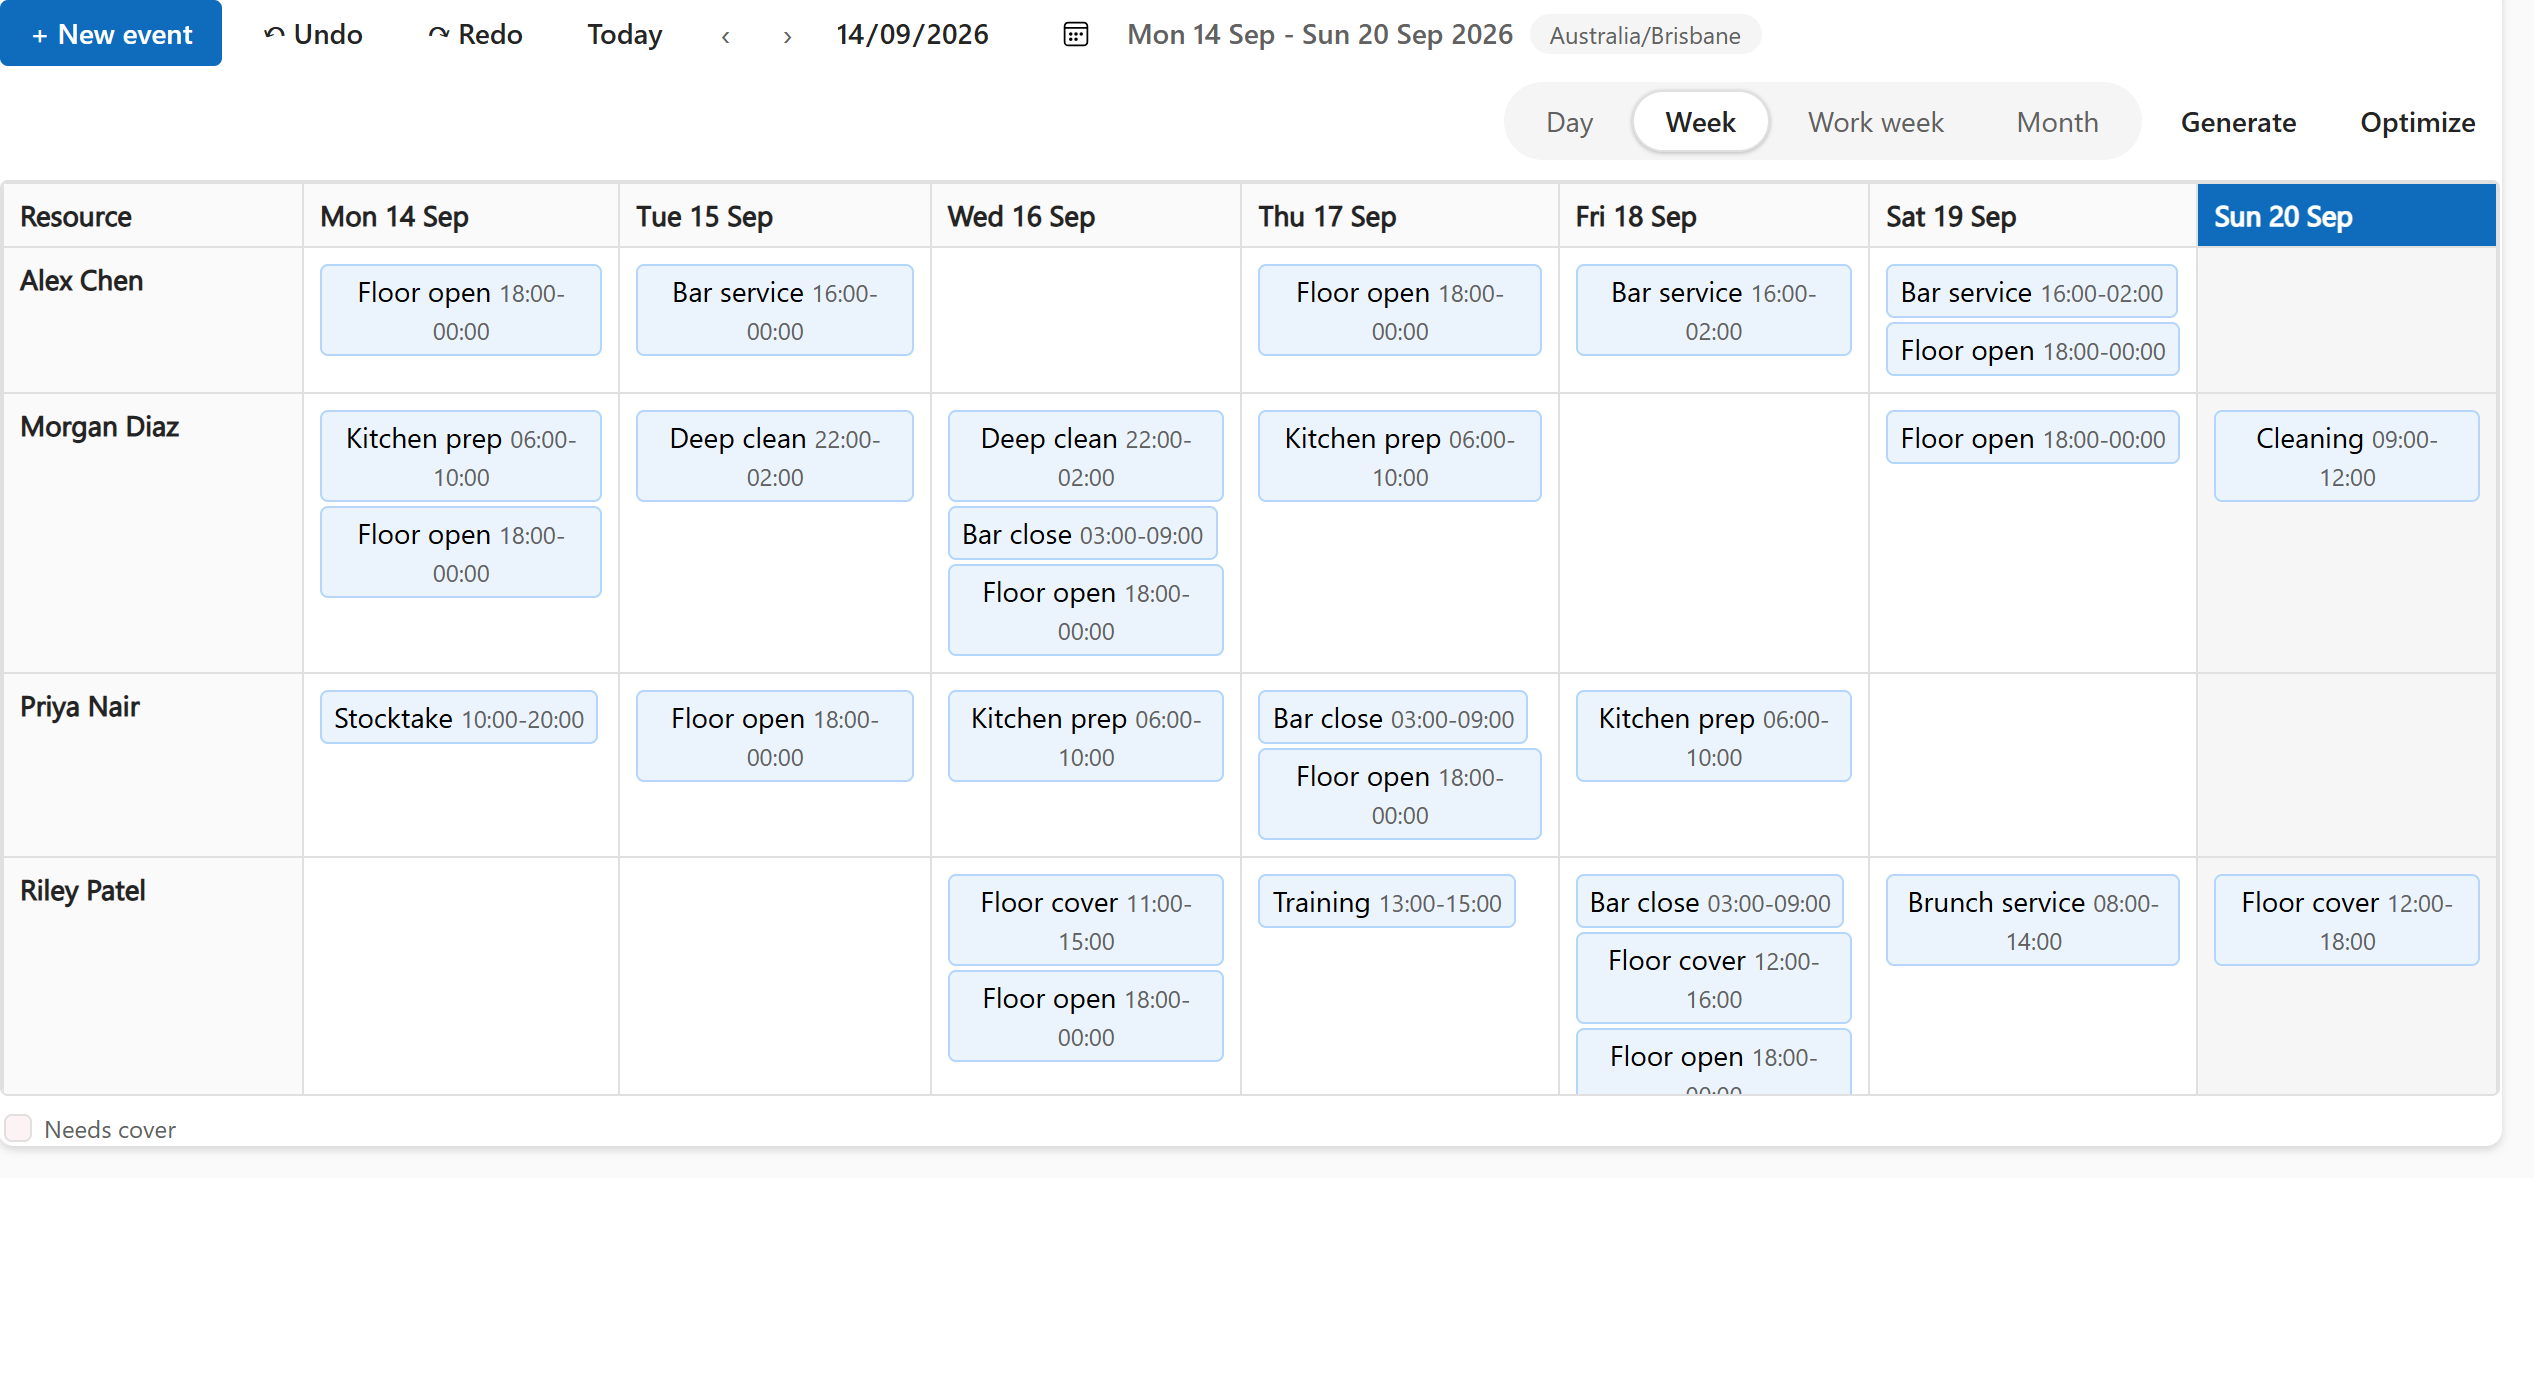
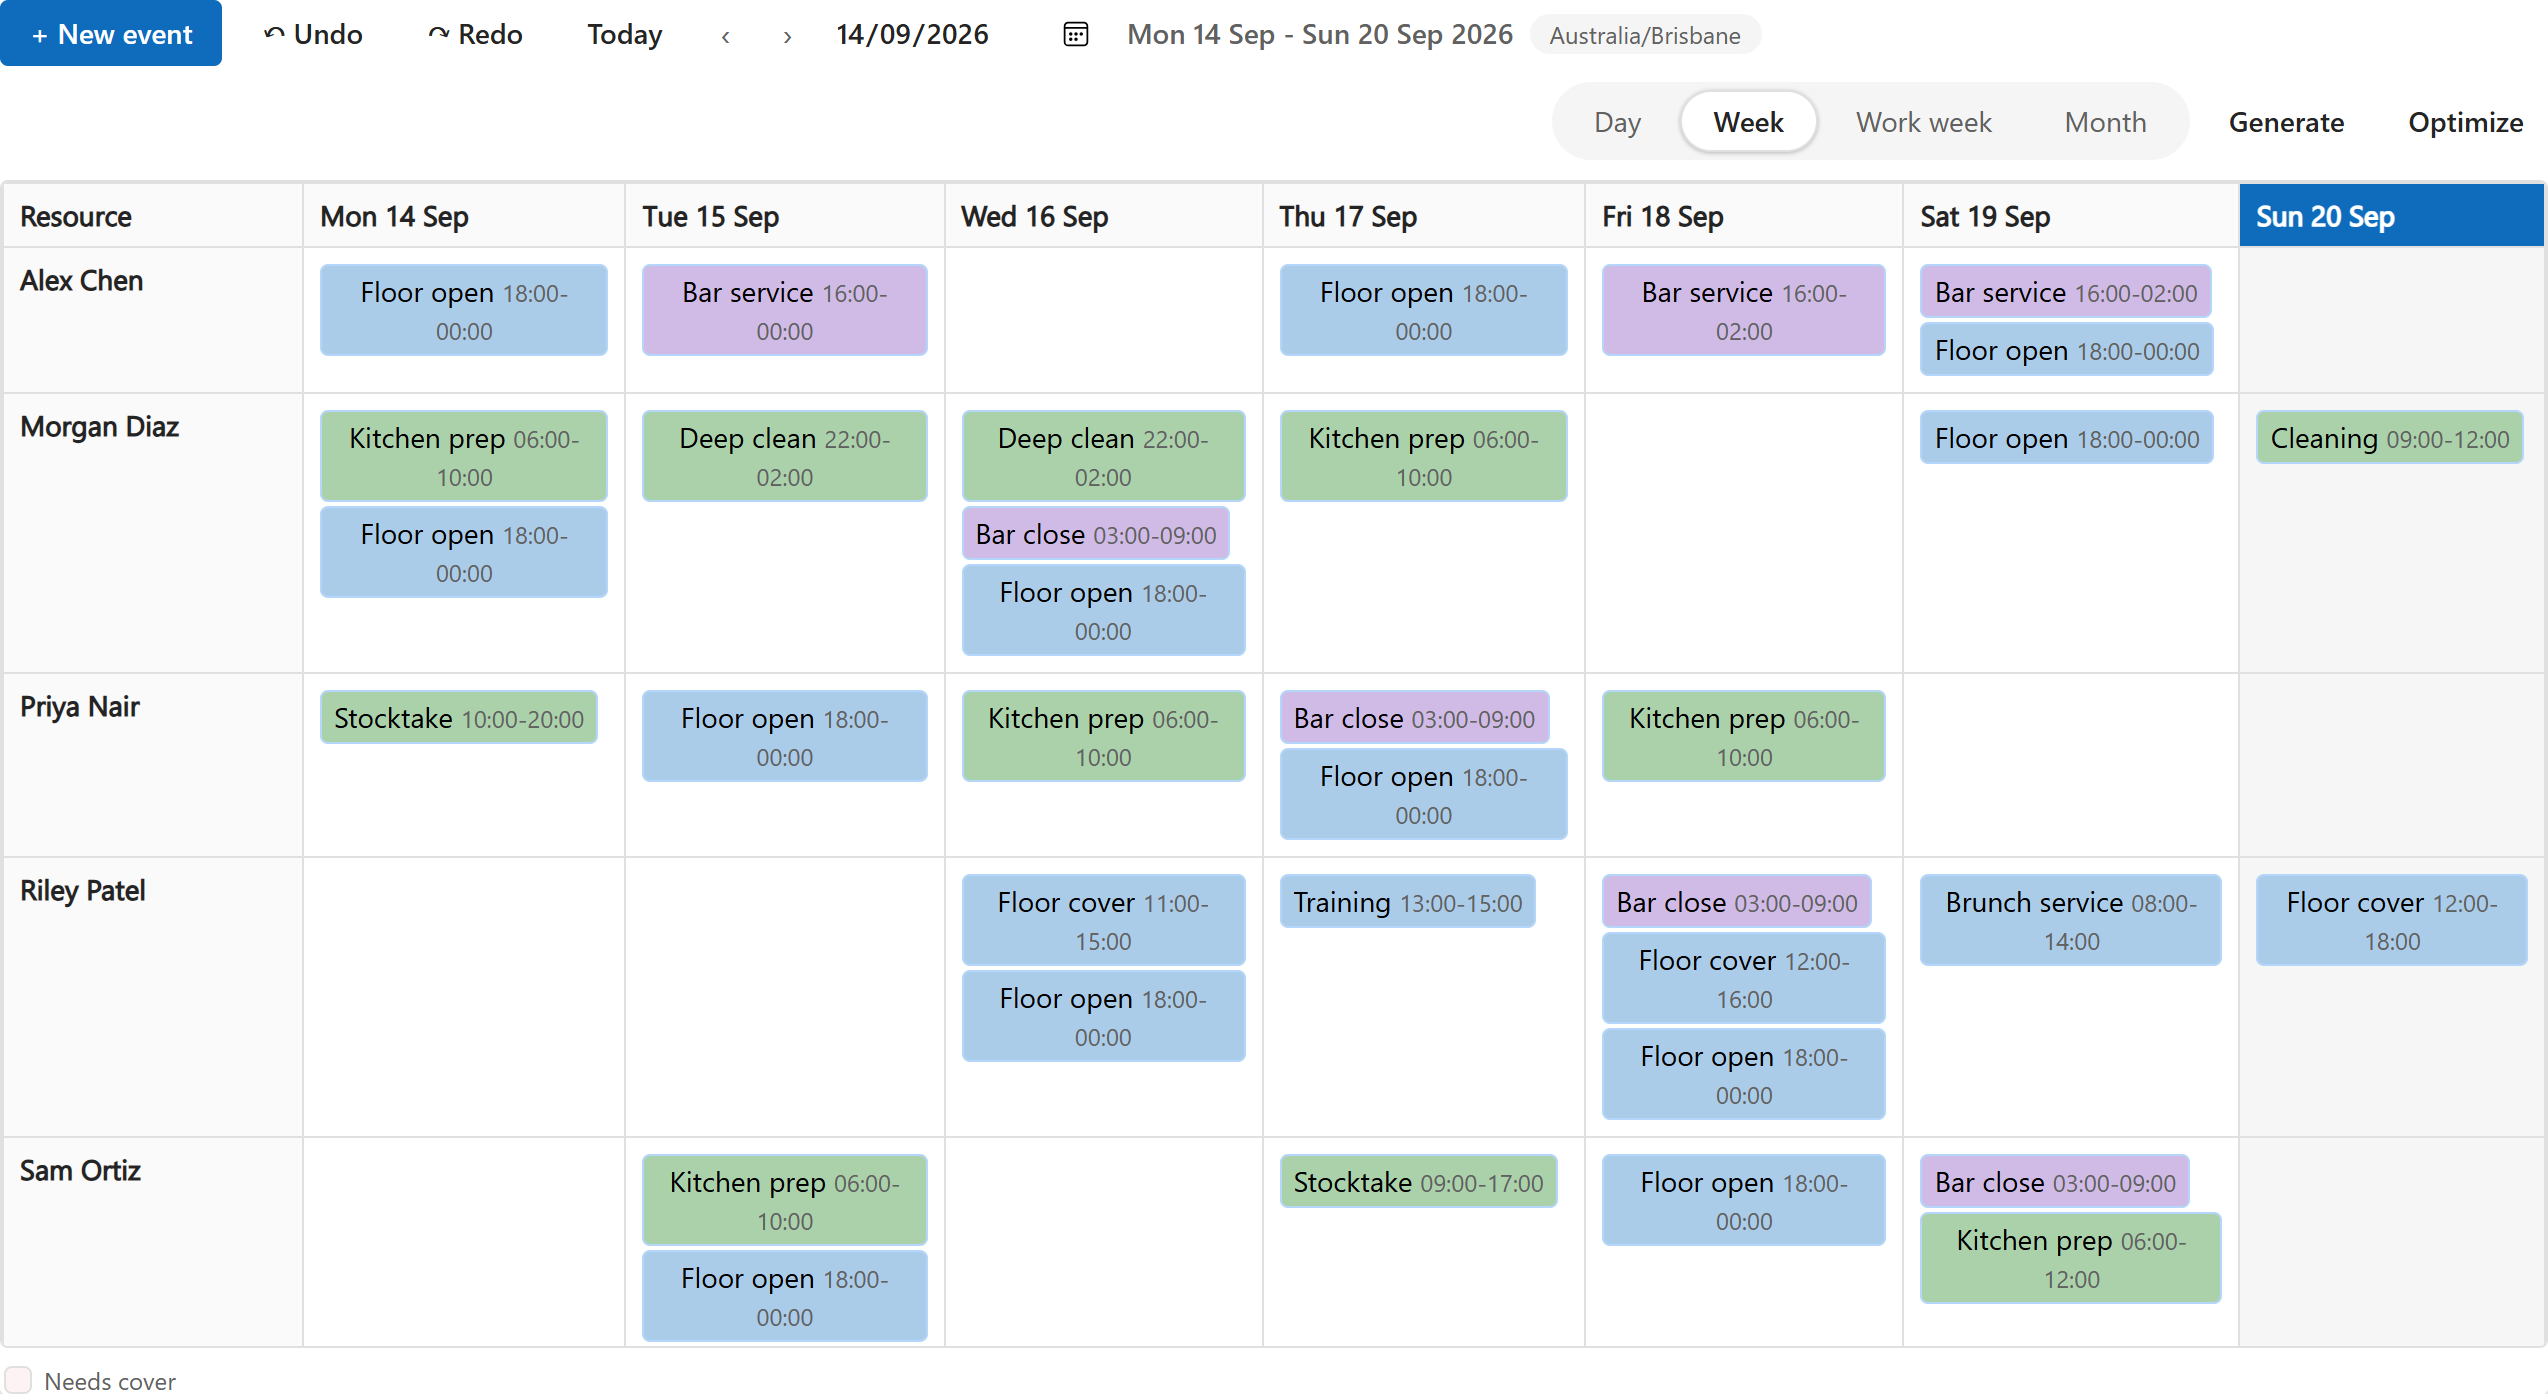
Chrona Scheduler 0.1.16

diff --git a/docs/layouts.md b/docs/layouts.md
@@ -2,7 +2,7 @@
 
 The scheduler draws a view in one of four layouts. The maker picks the layout once, on the view's configuration row (**Layout** on the Chrona Scheduler View row, see [Where things are set up](configure.md)); the people using the view do not switch it. What they do choose, per person, is the interval: Day, Week, Work week or Month, and the rest of the toolbar's settings.
 
-Every layout shows the same rows: the shifts, jobs or visits of the bound view, drag-and-drop scheduling, the right-click menu, the unscheduled panel, and the collision checks.
+Every layout shows the same rows: the shifts, jobs or visits of the bound view, drag-and-drop scheduling, the right-click menu, the unscheduled panel, and the collision checks. The colors in the pictures come from the view row's **Color by** setting, here set to Role: a bar takes its role's color; Group and Status are the other choices, and nothing leaves the bars neutral.
 
 | Layout | What it draws | Pick it when |
 | --- | --- | --- |

diff --git a/README.md b/README.md
@@ -44,7 +44,7 @@ The [install guide](docs/install.md) walks every step with the platform's own wo
 **Live in your app**
 - Right-click a bar for **Open record**, Chrona's actions and your app's own commands; select bars and your command bar works on them.
 - Your app's Fluent theme, light or dark. English and German, following each user's language. Times in each user's time zone.
-- A layout per view, set by the maker: timeline lanes, a roster grid, top-down columns or an agenda list. Day, week, work week and month time scales; groups such as teams or sites; a current-time line; non-working time and weekend shading.
+- A layout per view, set by the maker: timeline lanes, a roster grid, top-down columns or an agenda list; and a color per row by role, group or status when the maker wants one. Day, week, work week and month time scales; groups such as teams or sites; a current-time line; non-working time and weekend shading.
 - The whole view loads, up to 20,000 rows.
 
 ## See it

diff --git a/docs/configure.md b/docs/configure.md
@@ -36,6 +36,7 @@ Table **Chrona Scheduler View** (`chr_chronaschedulerview`), keyed by the view's
 | --- | --- | --- | --- |
 | Bound view | `chr_viewid` | The id of the view this row configures; Connect sets it. | The row is not found. |
 | Layout | `chr_layout` | The board's layout: timeline lanes, the roster grid, top-down columns or the agenda list. | Timeline. |
+| Color by | `chr_colorby` | What colors the rows: the role's color, one color per lane group, or the warning tint for rows needing cover. | Nothing; the bars stay neutral. |
 | Display time zone | `chr_displaytimezone` | An IANA zone such as `Australia/Brisbane`, or `site` for stored wall-clock times. | The user's Power Apps time zone, labelled with its offset. |
 | Slot length | `chr_slotminutes` | The time scale bars snap to, picked as a duration. | 30 minutes. |
 | Hour width | `chr_pxperhour` | Width of one hour in pixels, the board's density. | The control's default. |
